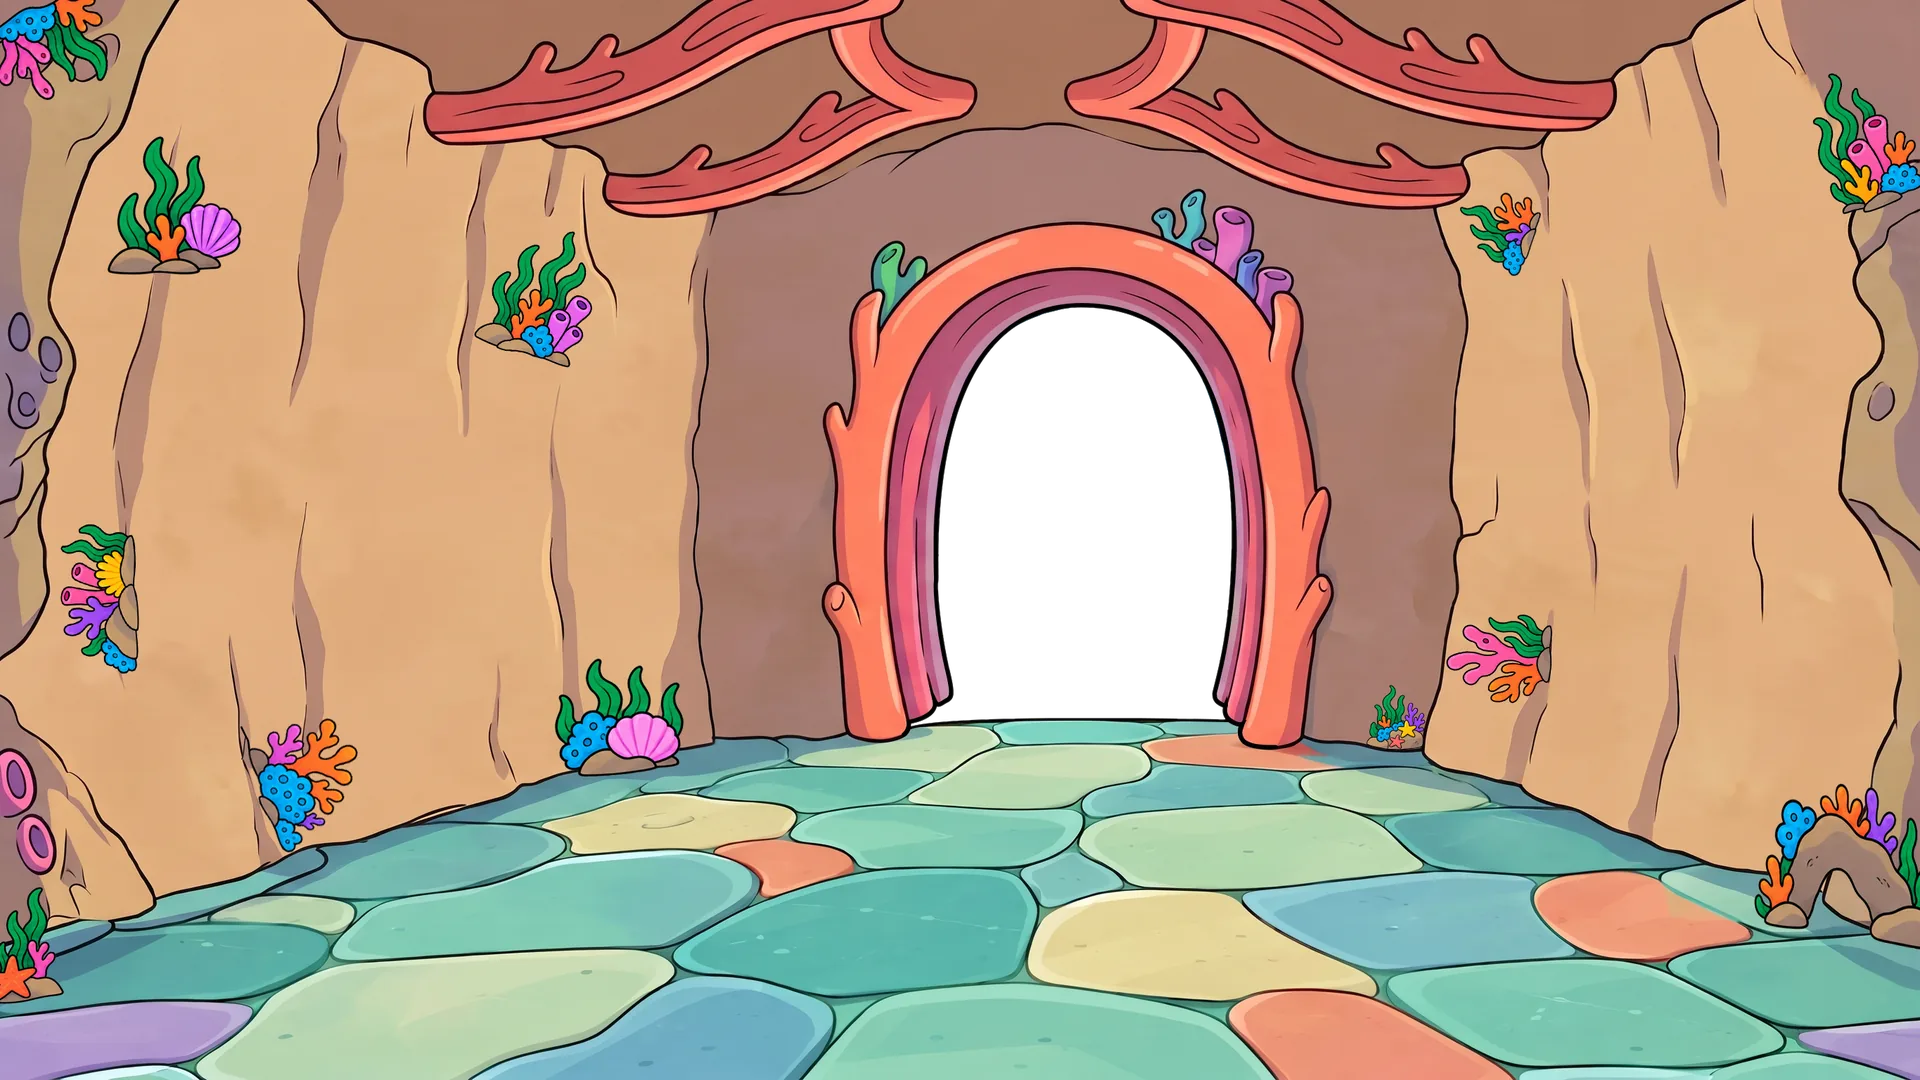
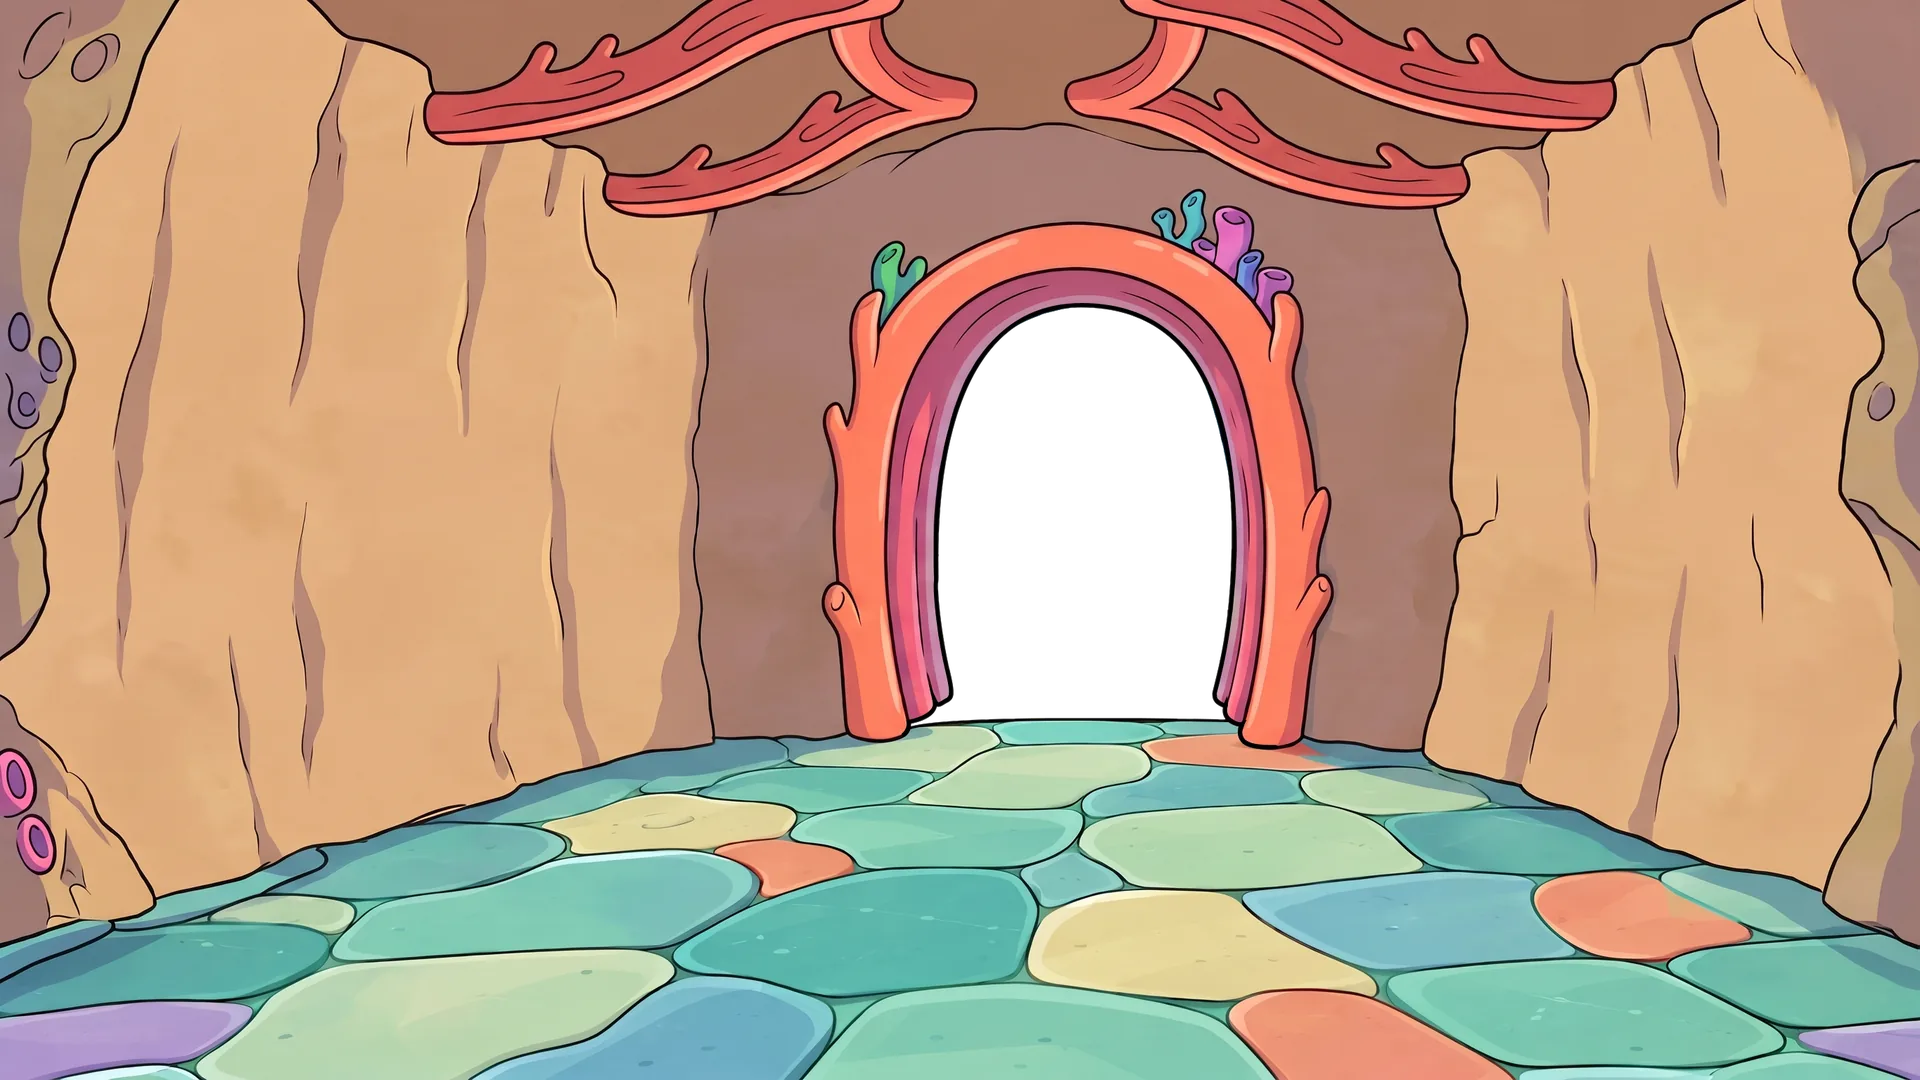
## Academy room polish - All 12 coral accents now sit on their own layers and breathe very slightly (tiny scale + sway, staggered); rising bubbles are back across the whole room. - Trumpet (and guitar) notes now fade out quickly instead of ringing on; fish in the archway scene swim behind the plaza 
Emergent-Commit-Key: 0a34505238647c7ca376039eac7194543832e8e4e5518676efe06b24badec7ee

diff --git a/frontend/src/pages/AcademyPage.js b/frontend/src/pages/AcademyPage.js
@@ -13,6 +13,8 @@ import AvatarSprite from '../components/AvatarSprite';
 import { Poster, PosterModal, loadPosters } from '../components/StagePoster';
 import CoverDesigner, { Sleeve, SLEEVES, loadCovers, saveCover, normalizeCover } from '../components/CoverDesigner';
 import AcademyPortal from '../components/AcademyPortal';
+import { Bubbles } from '../components/UnderwaterBackdrop';
+import { CORAL } from '../data/academyRoom';
 import { useStreetMusic } from './CampusMapPage';
 import useDailyQuests from '../hooks/useDailyQuests';
 import useRank from '../hooks/useRank';
@@ -188,7 +190,7 @@ function Yearbook() {
   );
 }
 
-const WELCOME = ["Welcome to the Academy! Tap things around the room.", 'The chalkboard is your Quest Board.', 'The coral archway takes you out to the plaza!', 'Design your record sleeves at the art table.', 'The big book on the stand is your Yearbook.', 'Rank up and a new friend pops out of the clock tower!'];
+const WELCOME = ["Welcome to the Academy! Tap things around the room.", 'The chalkboard is your Quest Board.', 'The coral archway takes you out to the plaza!', 'Design your album covers at the art table!', 'The big book on the stand is your Yearbook.', 'Rank up and a new friend pops out of the clock tower!'];
 const ACADEMY_TRACKS = [{ src: 'assets/music/magic.mp3', title: 'Magic' }, { src: 'assets/music/brand-new-friend.mp3', title: 'Brand New Friend' }];
 // Layer positions (% of the 1920x1080 room) measured straight from the PSD export.
 const ROOM = 'assets/academy/room/';
@@ -203,6 +205,34 @@ const L = {
 const MOTES = Array.from({ length: 12 }, (_, i) => ({ left: `${44 + (i * 7.3) % 24}%`, top: `${62 + (i * 5.1) % 30}%`, size: 3 + (i % 3) * 2, dur: 5 + (i % 4) * 1.5, delay: -(i * 0.7) }));
 const HALL = { w: 1920, h: 1080 };
 
+// The two easels on the art table show the kid's two latest record sleeves
+// (or a "make one!" hint) so the station explains itself.
+const EASELS = [{ left: '26%', top: '21%', width: '17.5%', rot: -4 }, { left: '54.5%', top: '22.5%', width: '20%', rot: 3 }];
+function Easels() {
+  const avatar = readAvatarOutfit();
+  const latest = useMemo(() => {
+    const tracks = [...loadSavedBeats().map((b) => ({ id: b.id, kind: 'beat', at: b.createdAt || 0 })), ...loadSongs().map((t) => ({ id: t.id, kind: 'song', at: Date.parse(t.createdAt) || 0 }))];
+    const covers = loadCovers();
+    return tracks.filter((t) => covers[t.id]).sort((a, b) => b.at - a.at).slice(0, 2).map((t) => ({ ...t, cover: normalizeCover(covers[t.id], SLEEVES[0]) }));
+  }, []);
+  return (
+    <div aria-hidden="true" className="absolute pointer-events-none" style={{ ...L.art, aspectRatio: '461 / 392', zIndex: 5 }} data-testid="academy-easels">
+      {EASELS.map((e, i) => {
+        const t = latest[i];
+        return (
+          <motion.div key={i} className="absolute" style={{ left: e.left, top: e.top, width: e.width, rotate: e.rot }} animate={{ y: [0, -1.5, 0] }} transition={{ repeat: Infinity, duration: 3 + i, ease: 'easeInOut' }}>
+            {t ? <Sleeve cover={t.cover} avatar={avatar} kind={t.kind} className="w-full" />
+              : <div className="w-full aspect-square flex flex-col items-center justify-center gap-0.5 text-center" style={{ color: '#B8233A' }}>
+                  <Palette className="w-[40%] h-[40%]" strokeWidth={2.5} />
+                  <span className="font-black leading-none" style={{ fontSize: 'clamp(6px, 0.55vw, 11px)' }}>{i === 0 ? 'ALBUM' : 'COVERS'}</span>
+                </div>}
+          </motion.div>
+        );
+      })}
+    </div>
+  );
+}
+
 // A painted prop layer pinned to the room; `wiggle` replays its tap animation.
 function Prop({ id, pos, z = 2, idle, tap, wiggle = 0, onClick, label, testId, className = '' }) {
   const img = <motion.img src={`${ROOM}${id}.png`} alt="" draggable={false} className="block w-full h-auto" animate={idle} transition={idle ? { repeat: Infinity, duration: 3.4, ease: 'easeInOut' } : undefined} />;
@@ -215,7 +245,10 @@ function Prop({ id, pos, z = 2, idle, tap, wiggle = 0, onClick, label, testId, c
   );
 }
 const PANELS = { class: TodaysClass, album: MyAlbum, yearbook: Yearbook };
-const ding = (f) => { const a = new Audio(encodeURI(`assets/audio/${f}`)); a.volume = 0.6; a.play().catch(() => {}); };
+const ding = (f, maxMs) => {
+  const a = new Audio(encodeURI(`assets/audio/${f}`)); a.volume = 0.6; a.play().catch(() => {});
+  if (maxMs) setTimeout(() => { const fade = setInterval(() => { a.volume = Math.max(0, a.volume - 0.1); if (a.volume <= 0.01) { clearInterval(fade); a.pause(); } }, 30); }, maxMs);
+};
 
 // Hotspot pinned to a % of the painted hall, with a pulsing ring + label so kids find it.
 function Hotspot({ id, x, y, w, h, label, color, onClick, children, testId }) {
@@ -252,7 +285,7 @@ export default function AcademyPage() {
     return () => window.removeEventListener('resize', fit);
   }, []);
   const Panel = panel ? PANELS[panel] : null;
-  const poke = (k, sfx) => { setWiggle((o) => ({ ...o, [k]: o[k] + 1 })); if (sfx) ding(sfx); };
+  const poke = (k, sfx, maxMs) => { setWiggle((o) => ({ ...o, [k]: o[k] + 1 })); if (sfx) ding(sfx, maxMs); };
   const goOut = () => { if (leaving) return; setLeaving(true); setTimeout(() => navigate('/home'), 650); };
 
   return (
@@ -264,6 +297,12 @@ export default function AcademyPage() {
         <AcademyPortal style={L.hole} onEnter={goOut} disabled={leaving} />
         {/* the painted room — the archway is a transparent hole in this plate */}
         <img src={`${ROOM}plate.webp`} alt="" draggable={false} className="absolute inset-0 w-full h-full" style={{ zIndex: 2 }} />
+        <Bubbles className="absolute inset-0" />
+        {/* every coral accent breathes very slightly on its own layer */}
+        {CORAL.map((c, i) => (
+          <motion.img key={c.id} src={`${ROOM}${c.id}.png`} alt="" draggable={false} aria-hidden="true" className="absolute pointer-events-none" style={{ left: c.left, top: c.top, width: c.width, zIndex: 2, transformOrigin: 'bottom center' }}
+            animate={{ scale: [1, 1.025, 1], rotate: [0, i % 2 ? 0.8 : -0.8, 0] }} transition={{ repeat: Infinity, duration: 3.6 + (i % 5) * 0.5, delay: -(i * 0.7), ease: 'easeInOut' }} />
+        ))}
         {/* light spilling from the archway onto the floor + drifting motes */}
         <motion.div aria-hidden="true" className="absolute pointer-events-none" style={{ left: '32%', top: '64%', width: '48%', height: '36%', zIndex: 2, background: 'radial-gradient(ellipse at 50% 0%, rgba(127,239,255,0.5) 0%, rgba(52,224,246,0.22) 35%, transparent 70%)', mixBlendMode: 'screen' }} animate={{ opacity: [0.5, 1, 0.5] }} transition={{ repeat: Infinity, duration: 2.8, ease: 'easeInOut' }} />
         {MOTES.map((m, i) => (
@@ -303,12 +342,13 @@ export default function AcademyPage() {
 
         {/* instruments — tap to play them */}
         <Prop id="harp" pos={L.harp} z={5} label="Starfish harp" wiggle={wiggle.harp} tap={{ rotate: [0, -3, 3, -2, 1, 0], y: [0, -8, 0] }} onClick={() => poke('harp', 'sfx-arpeggio.mp3')} />
-        <Prop id="trumpet" pos={L.trumpet} z={5} label="Seashell trumpet" wiggle={wiggle.trumpet} tap={{ rotate: [0, -8, 6, -4, 2, 0], scale: [1, 1.1, 1] }} onClick={() => poke('trumpet', 'sax/C4.mp3')} />
-        <Prop id="guitar" pos={L.guitar} z={5} label="Coral double-neck guitar" wiggle={wiggle.guitar} tap={{ rotate: [0, -4, 4, -3, 2, 0] }} onClick={() => poke('guitar', 'guitar-crunch/A3.mp3')} />
+        <Prop id="trumpet" pos={L.trumpet} z={5} label="Seashell trumpet" wiggle={wiggle.trumpet} tap={{ rotate: [0, -8, 6, -4, 2, 0], scale: [1, 1.1, 1] }} onClick={() => poke('trumpet', 'sax/C4.mp3', 450)} />
+        <Prop id="guitar" pos={L.guitar} z={5} label="Coral double-neck guitar" wiggle={wiggle.guitar} tap={{ rotate: [0, -4, 4, -3, 2, 0] }} onClick={() => poke('guitar', 'guitar-crunch/A3.mp3', 900)} />
 
-        {/* seashell art table → My Album */}
+        {/* seashell art table → Album Cover Studio (latest sleeves sit on the easels) */}
         <Prop id="art-station" pos={L.art} z={4} />
-        <Hotspot id="album" x={70} y={50} w={23} h={36} label="My Album" color="#FF2D85" onClick={() => setPanel('album')} />
+        <Easels />
+        <Hotspot id="album" x={70} y={50} w={23} h={36} label="Album Cover Studio" color="#FF2D85" onClick={() => setPanel('album')} />
 
         {/* posters hang on the back wall either side of the archway */}
         <motion.button type="button" data-testid="academy-pbj-poster" aria-label="Peanut Butter Jellyfish Sandwich poster" onClick={() => setPbj(true)} className="absolute p-0 border-0 bg-transparent cursor-pointer origin-top" style={{ left: '39.2%', top: '33%', width: '6.4%', zIndex: 3 }} animate={{ rotate: [-1.5, 1.5, -1.5] }} transition={{ repeat: Infinity, duration: 4, ease: 'easeInOut' }} whileHover={{ scale: 1.05 }} whileTap={{ scale: 0.96 }}>

diff --git a/frontend/src/components/AcademyPortal.js b/frontend/src/components/AcademyPortal.js
@@ -25,17 +25,17 @@ export default function AcademyPortal({ style, onEnter, disabled }) {
       <div aria-hidden="true" className="absolute overflow-hidden" style={{ ...style, zIndex: 1, background: 'linear-gradient(180deg, #7FEFFF 0%, #34E0F6 40%, #1AA7D8 72%, #0E7FB8 100%)' }}>
         <motion.div className="absolute" style={{ left: '-50%', top: '-50%', width: '200%', height: '200%', background: 'conic-gradient(from 0deg, transparent 0 14%, rgba(255,255,255,0.22) 16% 20%, transparent 22% 48%, rgba(255,255,255,0.18) 50% 55%, transparent 57% 80%, rgba(255,255,255,0.2) 82% 86%, transparent 88%)' }}
           animate={{ rotate: 360 }} transition={{ repeat: Infinity, duration: 40, ease: 'linear' }} />
+        {FISH.map((f, i) => (
+          <motion.img key={i} src={f.src} alt="" draggable={false} className="absolute object-contain" style={{ top: f.top, width: f.w, left: 0, scaleX: f.rev ? -1 : 1 }}
+            initial={{ x: f.rev ? '320%' : '-120%' }} animate={{ x: f.rev ? '-120%' : '320%', y: [0, -6, 0, 6, 0] }}
+            transition={{ x: { repeat: Infinity, duration: f.dur, ease: 'linear', delay: -f.delay }, y: { repeat: Infinity, duration: 3, ease: 'easeInOut' } }} />
+        ))}
         <div className="absolute inset-x-0 bottom-0" style={{ height: '22%', background: 'radial-gradient(ellipse at 50% 100%, #F2D9A0 0%, #E3C184 60%, #C9A469 100%)', borderTop: '3px solid rgba(2,36,63,0.35)' }} />
         <motion.img src="assets/plaza/dressing-room.png" alt="" draggable={false} className="absolute object-contain" style={{ left: '-4%', bottom: '12%', width: '62%', transform: 'scaleX(-1)', filter: 'drop-shadow(0 3px 0 rgba(2,36,63,0.35))' }} animate={{ y: [0, -3, 0] }} transition={{ repeat: Infinity, duration: 3.2, ease: 'easeInOut' }} />
         <motion.img src="assets/plaza/sticker-shack.png" alt="" draggable={false} className="absolute object-contain" style={{ right: '-2%', bottom: '12%', width: '58%', filter: 'drop-shadow(0 3px 0 rgba(2,36,63,0.35))' }} animate={{ y: [0, -3, 0] }} transition={{ repeat: Infinity, duration: 2.7, ease: 'easeInOut', delay: 0.6 }} />
         {[0, 1].map((n) => (
           <motion.img key={n} src={n ? UW_ASSETS.seaweed2 : UW_ASSETS.seaweed1} alt="" draggable={false} className="absolute object-contain object-bottom" style={{ [n ? 'right' : 'left']: '2%', bottom: '4%', width: '30%', transformOrigin: 'bottom center' }}
             animate={{ rotate: n ? [3, -3, 3] : [-3, 3, -3] }} transition={{ repeat: Infinity, duration: 3 + n, ease: 'easeInOut' }} />
-        ))}
-        {FISH.map((f, i) => (
-          <motion.img key={i} src={f.src} alt="" draggable={false} className="absolute object-contain" style={{ top: f.top, width: f.w, left: 0, scaleX: f.rev ? -1 : 1 }}
-            initial={{ x: f.rev ? '320%' : '-120%' }} animate={{ x: f.rev ? '-120%' : '320%', y: [0, -6, 0, 6, 0] }}
-            transition={{ x: { repeat: Infinity, duration: f.dur, ease: 'linear', delay: -f.delay }, y: { repeat: Infinity, duration: 3, ease: 'easeInOut' } }} />
         ))}
         {BUBBLES.map((b, i) => (
           <motion.span key={i} className="absolute rounded-full" style={{ left: b.left, bottom: '-6%', width: b.size, height: b.size, border: '1.5px solid rgba(255,255,255,0.85)', background: 'rgba(255,255,255,0.25)' }}

diff --git a/frontend/src/data/academyRoom.js b/frontend/src/data/academyRoom.js
@@ -1,0 +1,75 @@
+// Generated from the Academy PSD by /app/memory/export_academy_coral.py — coral accent layer positions (% of the 1920x1080 room).
+export const CORAL = [
+{
+'id': 'coral-01',
+'left': '0.00%',
+'top': '81.71%',
+'width': '3.55%'
+},
+{
+'id': 'coral-02',
+'left': '0.00%',
+'top': '0.00%',
+'width': '5.86%'
+},
+{
+'id': 'coral-03',
+'left': '94.18%',
+'top': '6.38%',
+'width': '5.82%'
+},
+{
+'id': 'coral-04',
+'left': '70.92%',
+'top': '63.02%',
+'width': '3.55%'
+},
+{
+'id': 'coral-05',
+'left': '12.31%',
+'top': '66.08%',
+'width': '6.59%'
+},
+{
+'id': 'coral-06',
+'left': '24.47%',
+'top': '21.03%',
+'width': '6.63%'
+},
+{
+'id': 'coral-07',
+'left': '5.35%',
+'top': '12.17%',
+'width': '7.47%'
+},
+{
+'id': 'coral-08',
+'left': '2.93%',
+'top': '48.11%',
+'width': '4.54%'
+},
+{
+'id': 'coral-09',
+'left': '91.14%',
+'top': '72.14%',
+'width': '8.86%'
+},
+{
+'id': 'coral-10',
+'left': '75.79%',
+'top': '17.38%',
+'width': '4.73%'
+},
+{
+'id': 'coral-11',
+'left': '28.64%',
+'top': '60.55%',
+'width': '7.22%'
+},
+{
+'id': 'coral-12',
+'left': '75.09%',
+'top': '56.51%',
+'width': '5.97%'
+}
+];

diff --git a/memory/export_academy_coral.py b/memory/export_academy_coral.py
@@ -1,0 +1,51 @@
+import json, os
+from psd_tools import PSDImage
+from PIL import Image, ImageFilter
+import numpy as np
+from collections import deque
+
+psd = PSDImage.open('/tmp/academy.psd')
+W, H = psd.size
+OUT = '/app/frontend/public/assets/academy/room'
+SCALE = 1920 / W
+
+def by_name(name, root=psd):
+    for l in root.descendants():
+        if l.name == name: return l
+    raise KeyError(name)
+def comp(layer): return layer.composite(viewport=(0, 0, W, H)).convert('RGBA')
+
+pos = {}
+def save_prop(key, img, pad=6):
+    a = np.array(img)[:, :, 3]; ys, xs = np.where(a > 8)
+    if len(xs) == 0: print('empty', key); return
+    x0, x1, y0, y1 = max(0, xs.min()-pad), min(W, xs.max()+pad+1), max(0, ys.min()-pad), min(H, ys.max()+pad+1)
+    crop = img.crop((x0, y0, x1, y1)).resize((round((x1-x0)*SCALE), round((y1-y0)*SCALE)), Image.LANCZOS)
+    crop.save(f'{OUT}/{key}.png', optimize=True)
+    pos[key] = { 'left': f'{x0/W*100:.2f}%', 'top': f'{y0/H*100:.2f}%', 'width': f'{(x1-x0)/W*100:.2f}%' }
+
+# plate = background + doorway linework (coral accents now live on their own layers)
+plate = Image.alpha_composite(comp(by_name('background plate use this')), comp(by_name('extra line work for doorway and edges')))
+arr = np.array(plate); white = (arr[:, :, :3].astype(int).min(axis=2) > 235)
+cx, cy = (1288+1751)//2, 800
+mask = np.zeros((H, W), bool); q = deque([(cy, cx)]); mask[cy, cx] = True
+while q:
+    y, x = q.popleft()
+    for ny, nx in ((y-1,x),(y+1,x),(y,x-1),(y,x+1)):
+        if 0 <= ny < H and 0 <= nx < W and not mask[ny, nx] and white[ny, nx]:
+            mask[ny, nx] = True; q.append((ny, nx))
+m = Image.fromarray((mask*255).astype('uint8')).filter(ImageFilter.GaussianBlur(1.2))
+plate.putalpha(Image.fromarray(np.minimum(arr[:, :, 3], 255 - np.array(m)).astype('uint8')))
+plate.resize((1920, 1080), Image.LANCZOS).save(f'{OUT}/plate.webp', 'WEBP', quality=82, method=6)
+
+# every visible coral accent as its own layer
+coral = by_name('coral accents')
+n = 0
+for l in coral:
+    if not l.visible: continue
+    n += 1
+    save_prop(f'coral-{n:02d}', comp(l))
+json.dump(pos, open(f'{OUT}/coral.json', 'w'))
+src = "// Generated from the Academy PSD by /app/memory/export_academy_coral.py — coral accent layer positions (% of the 1920x1080 room).\nexport const CORAL = " + json.dumps([{ 'id': k, **v } for k, v in pos.items()], indent=0).replace('"', "'") + ";\n"
+open('/app/frontend/src/data/academyRoom.js', 'w').write(src)
+print(n, 'coral layers'); print(src[:400])

diff --git a/memory/PRD.md b/memory/PRD.md
@@ -510,3 +510,4 @@ Beta tester (Rose) feedback pass + a new Live channel. Respond in English.
 - Plaza order: Academy → Dressing Room → Sticker Shack → Play → Learn → Create → JMAtv; YOU stands left of the Academy. Pills (ACADEMY / DRESSING ROOM / STICKERS / JMAtv) sit under buildings (signPos y 104). Stage moved to Play street as "Main Stage" (`bandstand` in CAMPUS_BUILDINGS; StageMarquee text replaces pulsing logo).
 - Camera follow (June 2026): every swim (tap a door, `go=` deep-link) pans the panorama to keep the Jelly centred (framer `animate` in CampusMapPage.enter, same easeInOut). Quest "Go"/Start buttons route through `journeyTo(route)` (data/campus.js) → `/campus?zone=…&go=<building>&dest=<encoded route>` (or `/home?go=…` for plaza rooms); zoomIn navigates to `dest` so `?quest=easy` deep-links survive.
 - Academy room v2 (June 2026): built from the user PSD "The academy backgroundsmaller.psd" via /app/memory/export_academy_room.py → public/assets/academy/room/ (plate.webp with transparent archway hole + cropped prop PNGs + layout.json). AcademyPage uses HALL 1920x1080, `L` positions, and a `Prop` layer component (idle + tap animations: lanterns sway/glow, book bobs, chalk doodles shimmer, harp/trumpet/guitar/shield play sfx). AcademyPortal is now a rect water scene behind the plate hole + a tap target with the "TO THE PLAZA" sign at the arch top. Posters hang on the back wall flanking the arch. Hall anchored at 60% vertical so phone-landscape keeps the chalkboard header. hall.jpg no longer used.
+- Academy room polish: 12 coral accents are separate layers (`data/academyRoom.js` + room/coral-NN.png, generated by /app/memory/export_academy_coral.py) breathing ±2.5%; room-wide `Bubbles`; sfx `ding(file, maxMs)` fades long samples (trumpet 450ms, guitar 900ms); portal fish render behind the buildings; art table = "Album Cover Studio" with `Easels` showing the two latest sleeves (or a palette hint).
